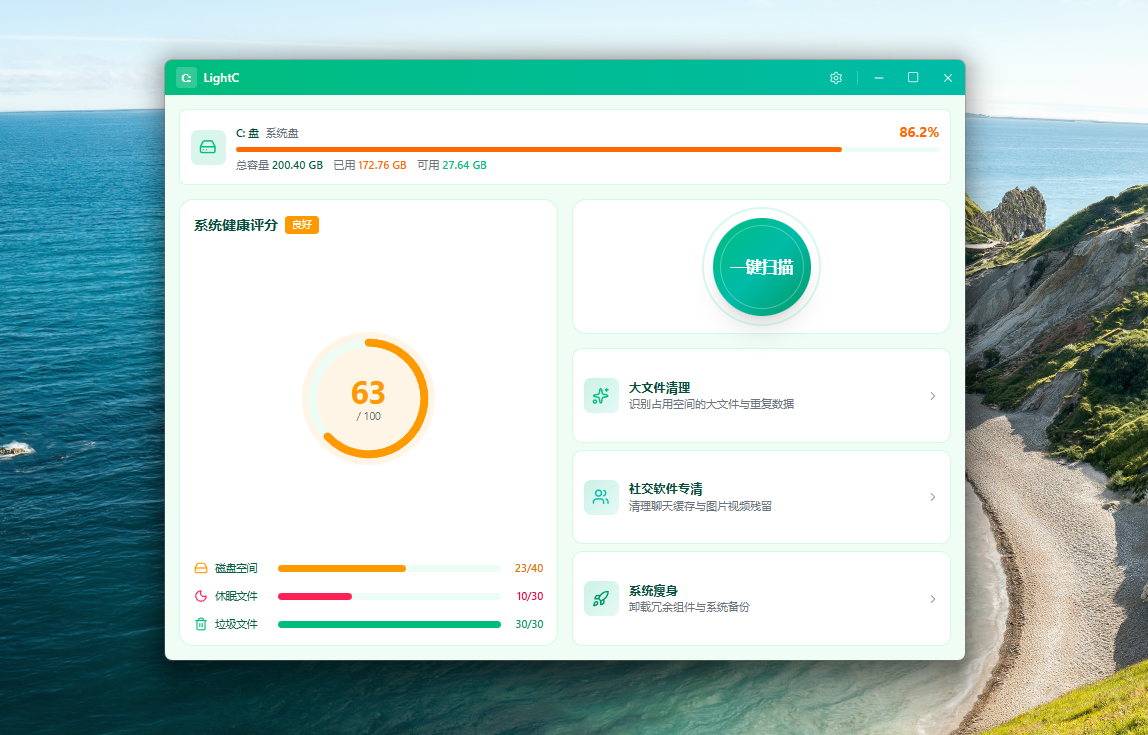
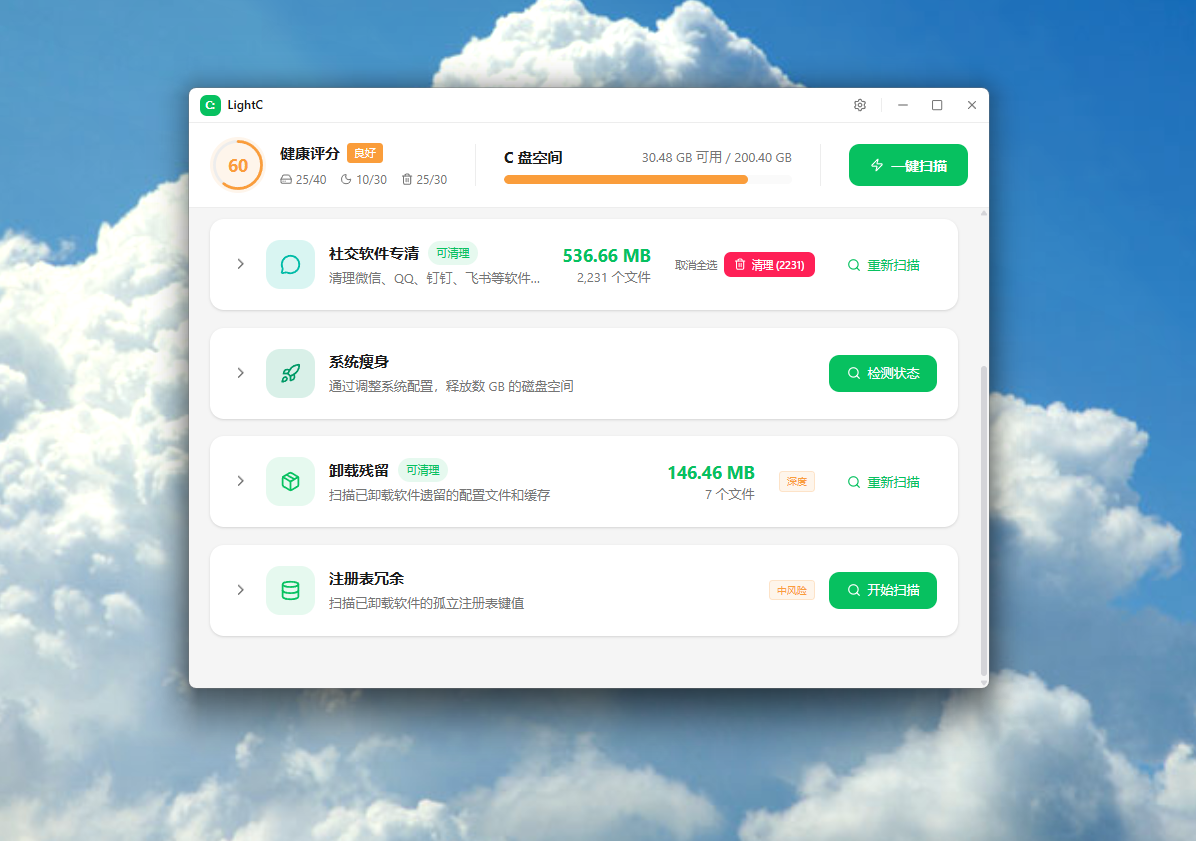
chore: 功能卡片折叠手风琴效果、readme、展示图更新

diff --git a/src/components/ModuleCard.tsx b/src/components/ModuleCard.tsx
@@ -3,7 +3,7 @@
 // 通用的可展开清理模块卡片，用于仪表盘布局
 // ============================================================================
 
-import { ReactNode } from 'react';
+import { ReactNode, useRef, useState, useEffect } from 'react';
 import { ChevronDown, Loader2, Search, CheckCircle2, AlertCircle } from 'lucide-react';
 import { formatSize } from '../utils/format';
 import type { ModuleStatus } from '../contexts/DashboardContext';
@@ -222,12 +222,95 @@ export function ModuleCard({
         )}
       </div>
 
-      {/* 展开内容 */}
-      {expanded && (
+      {/* 展开内容 - 手风琴动画 */}
+      <AccordionContent expanded={expanded}>
         <div className="border-t border-[var(--border-color)]">
           {children}
         </div>
-      )}
+      </AccordionContent>
+    </div>
+  );
+}
+
+// ============================================================================
+// 手风琴动画组件
+// ============================================================================
+
+interface AccordionContentProps {
+  expanded: boolean;
+  children: ReactNode;
+}
+
+function AccordionContent({ expanded, children }: AccordionContentProps) {
+  const contentRef = useRef<HTMLDivElement>(null);
+  const [height, setHeight] = useState<number | 'auto'>(0);
+  const [isAnimating, setIsAnimating] = useState(false);
+
+  useEffect(() => {
+    const content = contentRef.current;
+    if (!content) return;
+
+    if (expanded) {
+      // 展开：先设置实际高度，动画结束后设为 auto
+      const scrollHeight = content.scrollHeight;
+      setHeight(scrollHeight);
+      setIsAnimating(true);
+      
+      const timer = setTimeout(() => {
+        setHeight('auto');
+        setIsAnimating(false);
+      }, 300); // 与 CSS transition 时长一致
+      
+      return () => clearTimeout(timer);
+    } else {
+      // 折叠：先从 auto 设为实际高度，再设为 0
+      if (height === 'auto') {
+        const scrollHeight = content.scrollHeight;
+        setHeight(scrollHeight);
+        // 强制重绘
+        content.offsetHeight;
+        requestAnimationFrame(() => {
+          setHeight(0);
+          setIsAnimating(true);
+        });
+      } else {
+        setHeight(0);
+        setIsAnimating(true);
+      }
+      
+      const timer = setTimeout(() => {
+        setIsAnimating(false);
+      }, 300);
+      
+      return () => clearTimeout(timer);
+    }
+  }, [expanded]);
+
+  // 初始状态：如果展开则显示内容
+  useEffect(() => {
+    if (expanded && height === 0 && !isAnimating) {
+      const content = contentRef.current;
+      if (content) {
+        setHeight(content.scrollHeight);
+        setTimeout(() => setHeight('auto'), 300);
+      }
+    }
+  }, []);
+
+  const shouldRender = expanded || height !== 0 || isAnimating;
+
+  if (!shouldRender) return null;
+
+  return (
+    <div
+      ref={contentRef}
+      style={{
+        height: typeof height === 'number' ? `${height}px` : height,
+        overflow: 'hidden',
+        transition: 'height 300ms cubic-bezier(0.4, 0, 0.2, 1)',
+      }}
+    >
+      {children}
     </div>
   );
 }

diff --git a/README.md b/README.md
@@ -283,6 +283,34 @@ npm run tauri build
 
 ---
 
+## 📋 更新日志
+
+### v1.2.0 (2025-02-27)
+
+#### 🆕 新增功能
+
+- **卸载残留扫描**：扫描 AppData 和 ProgramData 中无对应已安装程序的孤立文件夹
+- **注册表冗余扫描**：安全扫描 Windows 注册表中的孤立键值和无效引用，支持备份导出
+- **增强删除引擎**：
+  - 支持 **Take Ownership** 获取文件所有权（仅限安全目录）
+  - 支持 **Delete on Reboot** 处理锁定文件（使用 `MoveFileExW` + `MOVEFILE_DELAY_UNTIL_REBOOT`）
+  - 显示**物理释放量**而非逻辑大小（按磁盘簇对齐计算）
+  - 详细的失败原因反馈（权限不足、文件被占用、系统保护等）
+
+#### 🎨 UI 优化
+
+- **手风琴动画**：模块卡片折叠/展开添加平滑过渡动画效果
+- **WeChat 风格汇总**：清理完成后显示真实释放量、跳过原因、待重启删除数
+- **失败原因提示**：鼠标悬停显示详细的跳过原因（如"文件被系统占用，将在重启后删除"）
+
+#### 🔧 技术改进
+
+- 新增 `EnhancedDeleteEngine` 模块（`src-tauri/src/cleaner/enhanced_delete.rs`）
+- 前端新增 `EnhancedDeleteResult` 类型和相关 API
+- `ScanSummary` 组件支持增强删除结果显示
+
+---
+
 ## 🤝 贡献
 
 欢迎提交 Issue 和 Pull Request！
